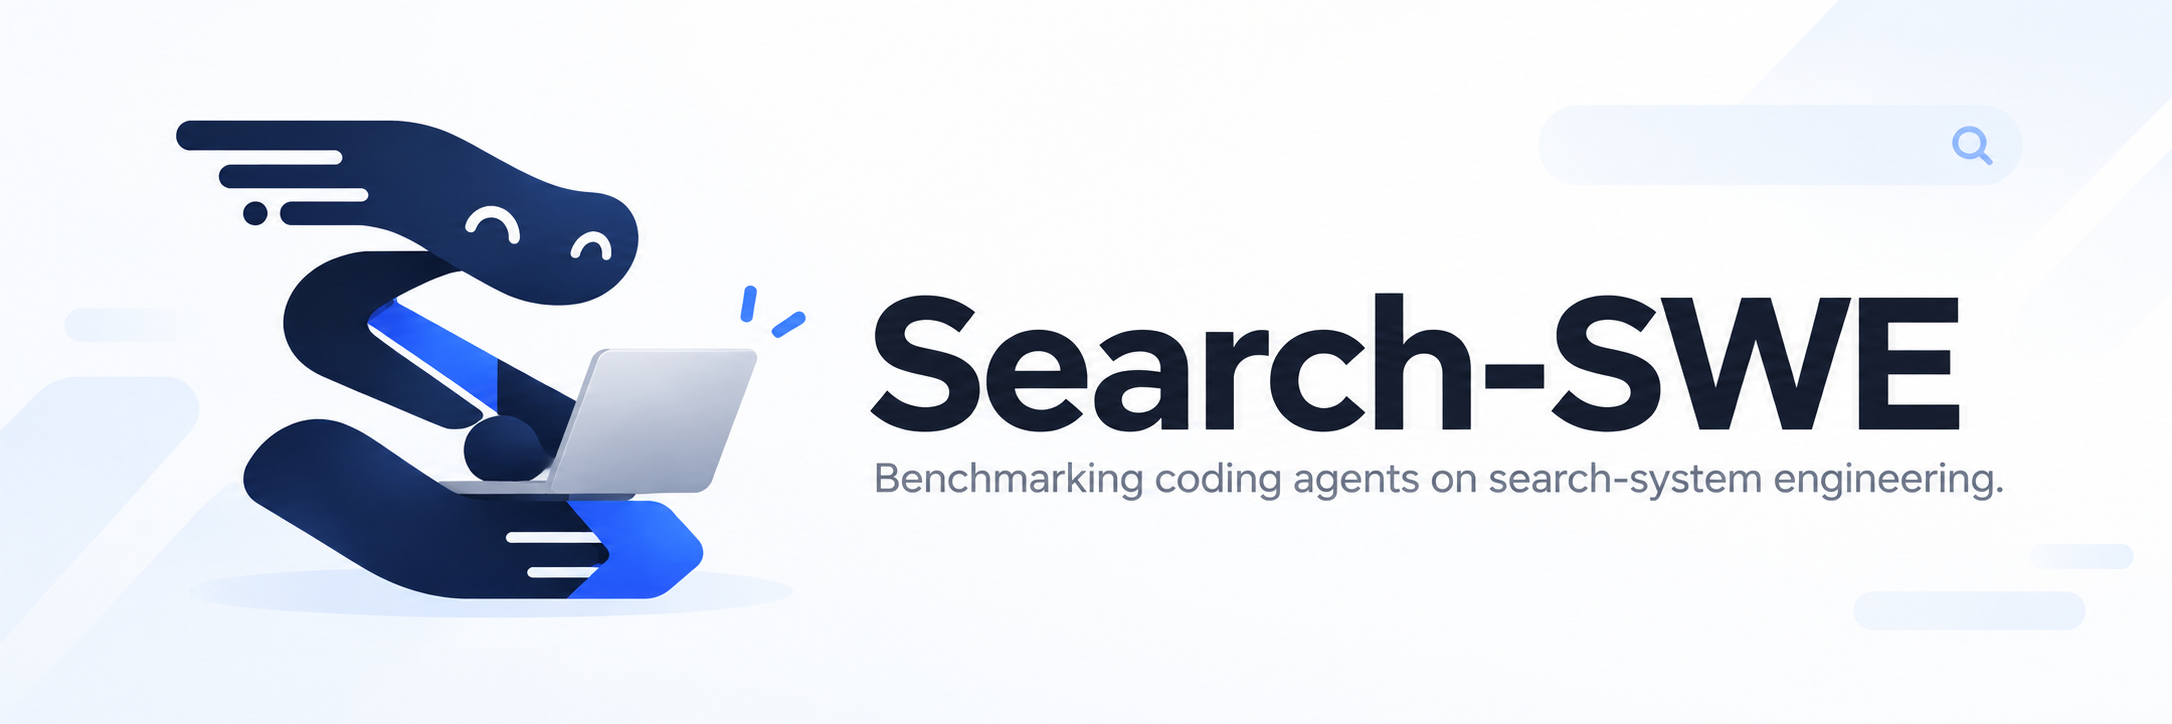
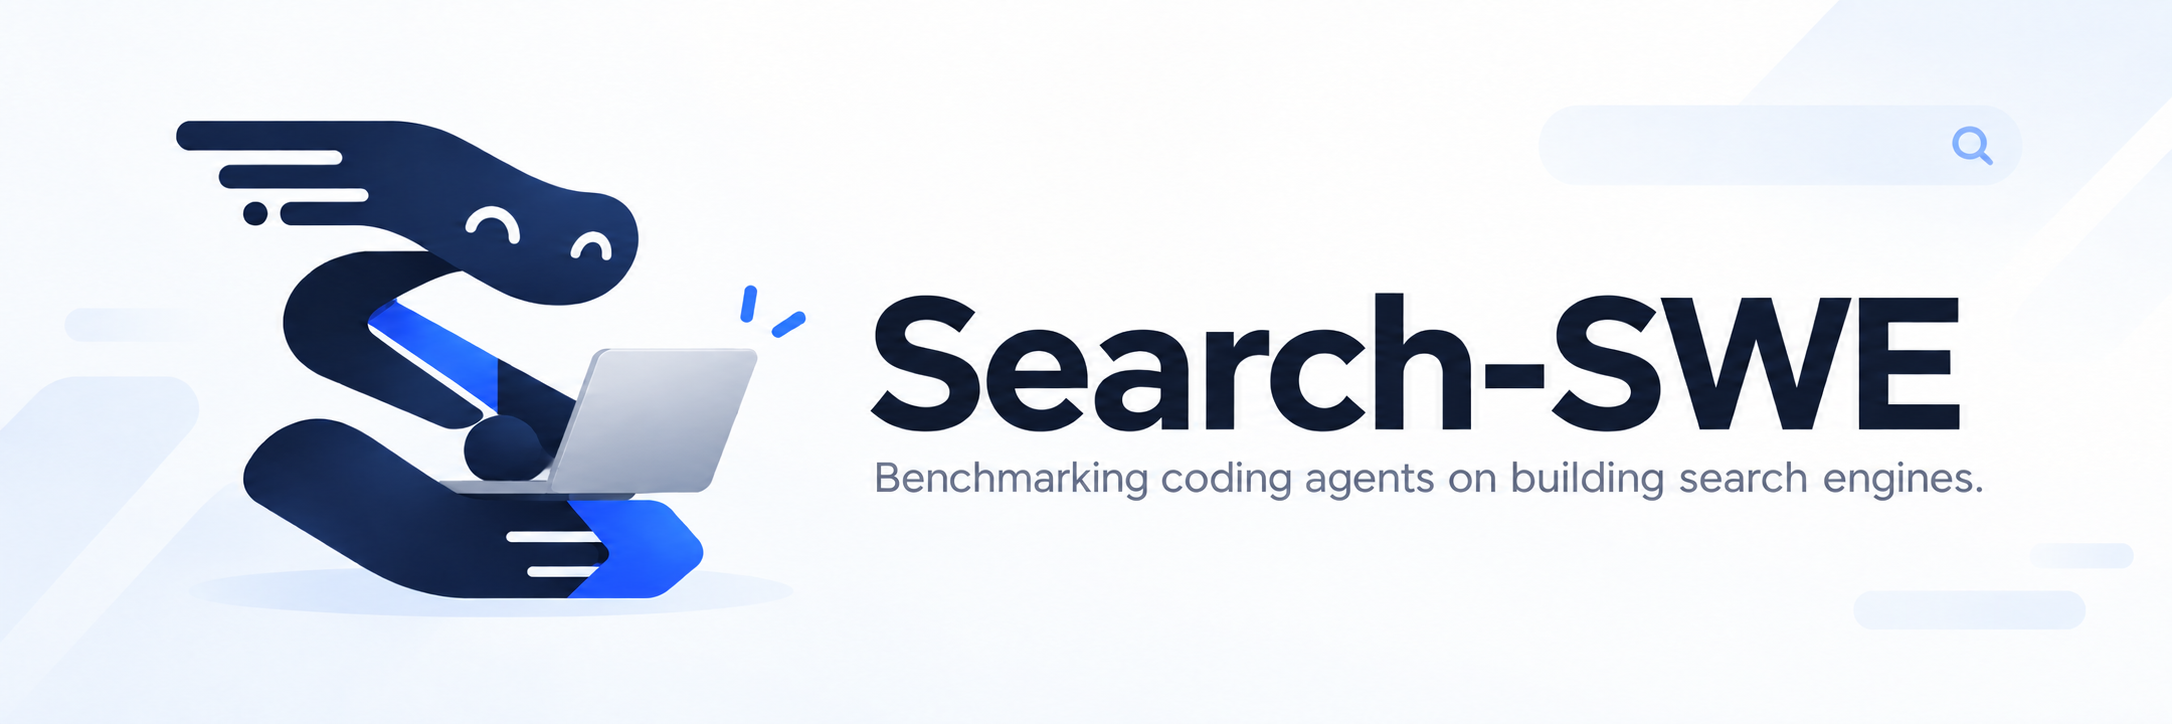
Update Search-SWE tagline

diff --git a/README_zh.md b/README_zh.md
@@ -1,11 +1,11 @@
 <p align="center">
-  <img src="assets/hero.png" alt="Search-SWE——面向搜索系统工程的编码智能体评测基准">
+  <img src="assets/hero.png" alt="Search-SWE——评测编码智能体构建搜索引擎的能力">
 </p>
 
 <h1 align="center">
   Search-SWE
   <br>
-  <sub>🔍 面向搜索系统工程的编码智能体评测基准。 🤖</sub>
+  <sub>🔍 评测编码智能体构建搜索引擎的能力。 🤖</sub>
 </h1>
 
 <p align="center">

diff --git a/README.md b/README.md
@@ -1,5 +1,5 @@
 <p align="center">
-  <img src="assets/hero.png" alt="Search-SWE — Benchmarking coding agents on search-system engineering">
+  <img src="assets/hero.png" alt="Search-SWE — Benchmarking coding agents on building search engines">
 </p>
 
 <h1 align="center">
